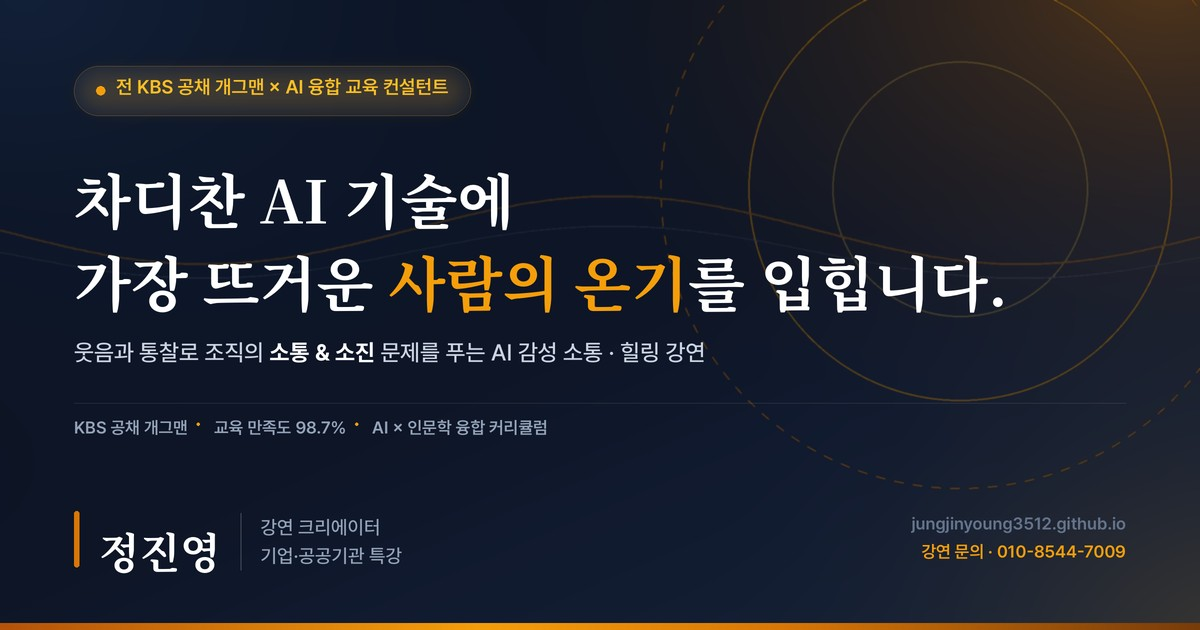
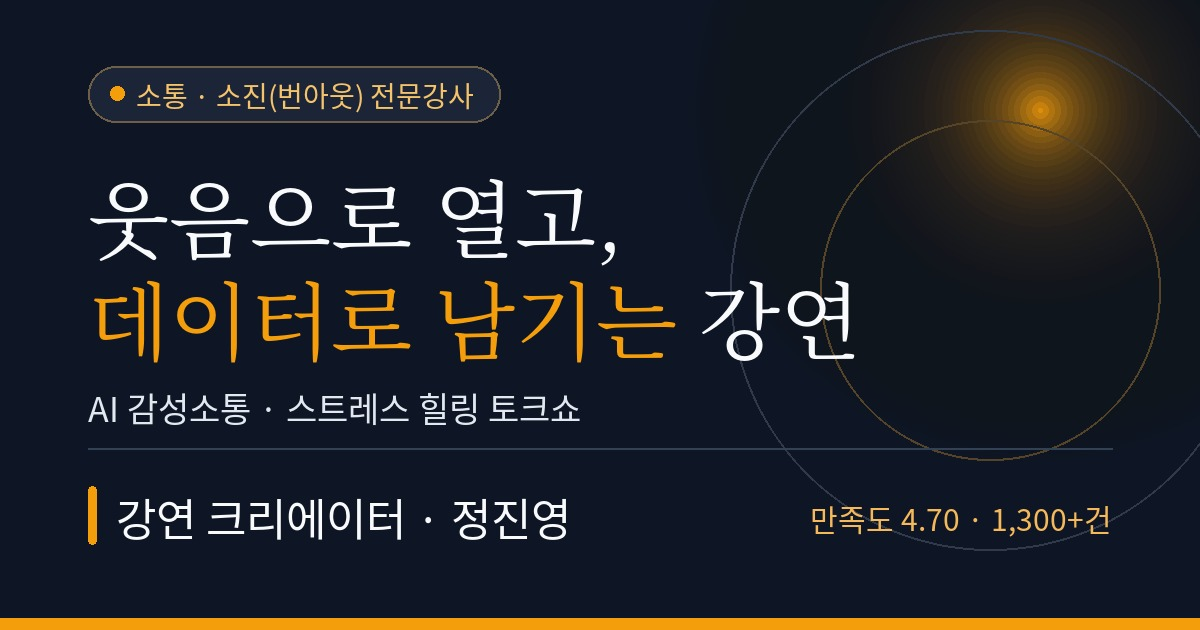
OG 썸네일 v2 교체 — og:image·twitter:image를 og-image-v2.jpg로 변경
og-image.jpg도 v2 이미지로 갱신(카톡 캐시 우회용 이중 경로). index.html은 라이브 최신본에서 og:image·twitter:image 두 줄만 변경.

diff --git a/index.html b/index.html
@@ -12,7 +12,7 @@
     <meta property="og:url" content="https://jungjinyoung3512.github.io/jungjinyoung3512/">
     <meta property="og:title" content="정진영 | 소통·소진(번아웃) 강연 · 데이터로 남기는 강연 크리에이터">
     <meta property="og:description" content="AI로 조직의 소진 지점을 읽고, 현장에서는 AI로 직접 진단하며, 강연 후에는 결과 보고서로 전·후 비교를 가능하게 해드립니다. 2026.11 현장 만족도 4.70/5.00. 강연 크리에이터 정진영. 특강 문의 010-8544-7009">
-    <meta property="og:image" content="https://jungjinyoung3512.github.io/jungjinyoung3512/og-image.jpg">
+    <meta property="og:image" content="https://jungjinyoung3512.github.io/jungjinyoung3512/og-image-v2.jpg">
     <meta property="og:image:width" content="1200">
     <meta property="og:image:height" content="630">
     <meta property="og:image:type" content="image/jpeg">
@@ -20,7 +20,7 @@
     <meta name="twitter:card" content="summary_large_image">
     <meta name="twitter:title" content="정진영 | 소통·소진(번아웃) 강연 · 데이터로 남기는 강연 크리에이터">
     <meta name="twitter:description" content="AI로 조직의 소진 지점을 읽고, 현장에서는 AI로 직접 진단하며, 강연 후에는 결과 보고서로 전·후 비교를 가능하게 해드립니다. 2026.11 현장 만족도 4.70/5.00. 강연 크리에이터 정진영. 특강 문의 010-8544-7009">
-    <meta name="twitter:image" content="https://jungjinyoung3512.github.io/jungjinyoung3512/og-image.jpg">
+    <meta name="twitter:image" content="https://jungjinyoung3512.github.io/jungjinyoung3512/og-image-v2.jpg">
     <meta name="twitter:image:alt" content="정진영 강연 크리에이터 — 웃음으로 열고, 데이터로 남기는 소통·소진 강연">
 
     <!-- Tailwind CSS CDN -->
